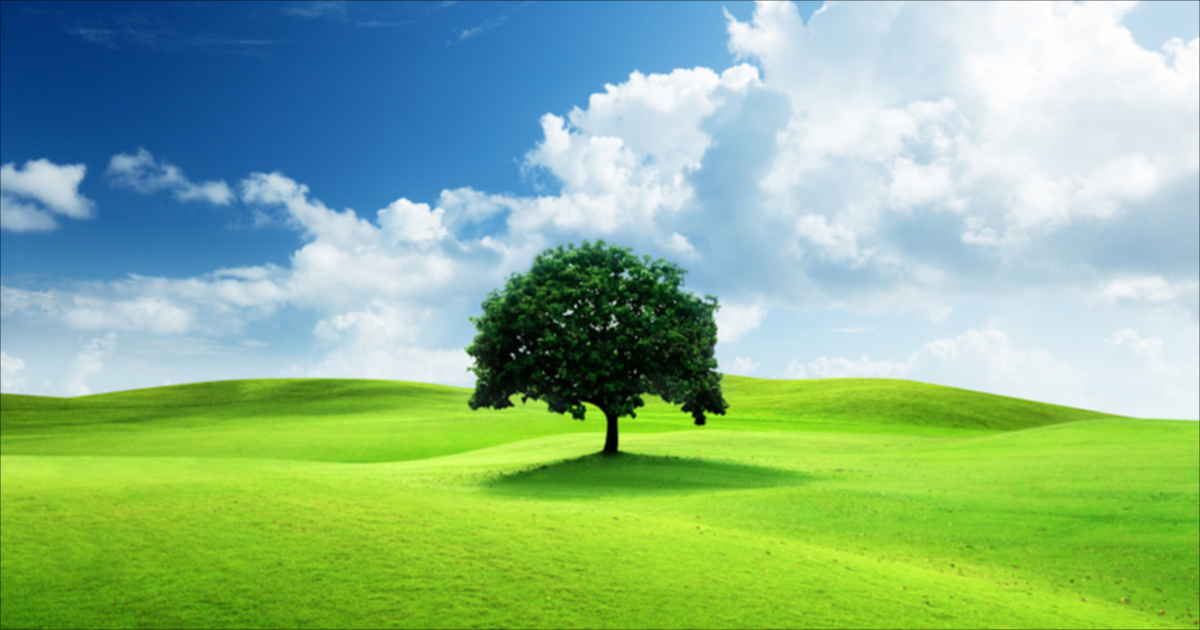
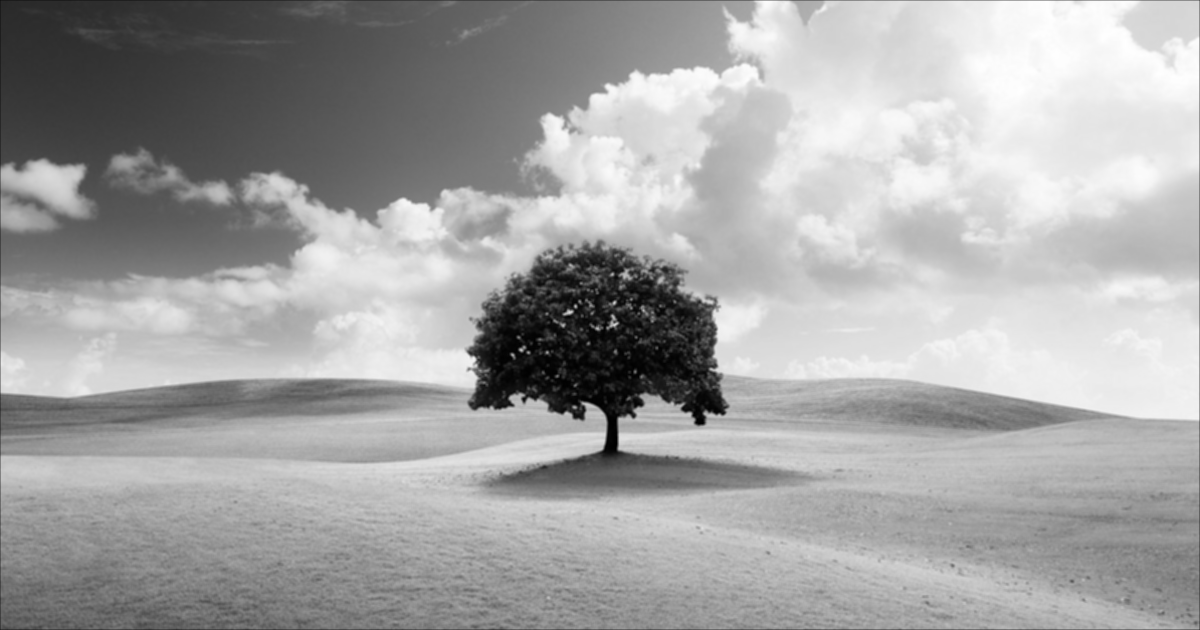
Added High Pass and Low Pass filters

diff --git a/Frontend/Frontend/src/App.jsx b/Frontend/Frontend/src/App.jsx
@@ -139,6 +139,8 @@ export default function ImageProcessor() {
           <button onClick={() => processImage("histogram")} className="btn">Histogram</button>
           <button onClick={() => processImage("smooth")} className="btn">Smooth</button>
           <button onClick={() => processImage("sharpen")} className="btn">Sharpen</button>
+          <button onClick={() => processImage("highpass")} className="btn">High-Pass</button>
+          <button onClick={() => processImage("lowpass")} className="btn">Low-Pass</button>
         </div>
       )}
 
@@ -174,19 +176,17 @@ export default function ImageProcessor() {
 
       {/* Footer */}
       <motion.div
-  className="absolute bottom-4 right-4 bg-gray-800/80 text-gray-300 text-sm px-4 py-2 rounded-lg shadow-lg border border-gray-600"
-  initial={{ opacity: 0, y: 10 }}
-  animate={{ opacity: 1, y: 0 }}
-  transition={{ duration: 0.7 }}
->
-  Project by <span className="font-semibold text-blue-400">Prajjwal Rawat</span>  
-  <br />
-  Req. No: <span className="text-purple-400">RA2311026010224</span> | Sec: <span className="text-green-400">AE-1</span>
-  <br />
-  <span className="text-white">Project submitted to:</span> <span className="text-yellow-400 font-semibold">Dr. S Nagar</span>
-</motion.div>
-
-
+        className="absolute bottom-4 right-4 bg-gray-800/80 text-gray-300 text-sm px-4 py-2 rounded-lg shadow-lg border border-gray-600"
+        initial={{ opacity: 0, y: 10 }}
+        animate={{ opacity: 1, y: 0 }}
+        transition={{ duration: 0.7 }}
+      >
+        Project by <span className="font-semibold text-blue-400">Prajjwal Rawat</span>  
+        <br />
+        Req. No: <span className="text-purple-400">RA2311026010224</span> | Sec: <span className="text-green-400">AE-1</span>
+        <br />
+        <span className="text-white">Project submitted to:</span> <span className="text-yellow-400 font-semibold">Dr. S Nagar</span>
+      </motion.div>
     </div>
   );
 }

diff --git a/Backend/processing.py b/Backend/processing.py
@@ -6,7 +6,7 @@ ImageFile.LOAD_TRUNCATED_IMAGES = True
 
 def convert_grayscale(image):
     """Convert an image to grayscale from scratch."""
-    image.load()  # Ensure image is fully loaded
+    image.load()
     img_array = np.array(image)
     
     if len(img_array.shape) == 2:  # Already grayscale
@@ -20,13 +20,8 @@ def quantize_image(image, levels=4):
     image.load()
     img_array = np.array(image)
     
-    if len(img_array.shape) == 2:  # Grayscale image
-        factor = 256 // levels
-        quantized_img = (img_array // factor) * factor
-        return Image.fromarray(quantized_img.astype(np.uint8))
-
     factor = 256 // levels
-    quantized_img = (img_array[..., :3] // factor) * factor  # Ignore alpha if present
+    quantized_img = (img_array // factor) * factor
     return Image.fromarray(quantized_img.astype(np.uint8))
 
 def histogram_equalization(image):
@@ -34,7 +29,7 @@ def histogram_equalization(image):
     image.load()
     img_array = np.array(image)
 
-    if len(img_array.shape) == 2:  # Grayscale image
+    if len(img_array.shape) == 2:  # Grayscale
         hist, bins = np.histogram(img_array.flatten(), bins=256, range=[0, 256])
         cdf = hist.cumsum()
         cdf_normalized = (cdf - cdf.min()) * 255 / (cdf.max() - cdf.min())
@@ -53,28 +48,22 @@ def smooth_filter(image):
     """Apply a 3x3 smoothing filter while preserving color or grayscale."""
     image.load()
     img_array = np.array(image)
-    
-    if len(img_array.shape) == 2:  # Grayscale image
-        kernel = np.ones((3, 3)) / 9
-        pad = 1
-        padded_img = np.pad(img_array, pad, mode='constant', constant_values=0)
-        smoothed_img = np.zeros_like(img_array)
-
-        for i in range(img_array.shape[0]):
-            for j in range(img_array.shape[1]):
-                smoothed_img[i, j] = np.sum(padded_img[i:i+3, j:j+3] * kernel)
-
-        return Image.fromarray(smoothed_img.astype(np.uint8))
 
     kernel = np.ones((3, 3)) / 9
     pad = 1
     smoothed_img = np.zeros_like(img_array)
 
-    for c in range(3):  # R, G, B channels
-        padded_channel = np.pad(img_array[:, :, c], pad, mode='constant', constant_values=0)
+    if len(img_array.shape) == 2:  # Grayscale
+        padded_img = np.pad(img_array, pad, mode='constant', constant_values=0)
         for i in range(img_array.shape[0]):
             for j in range(img_array.shape[1]):
-                smoothed_img[i, j, c] = np.sum(padded_channel[i:i+3, j:j+3] * kernel)
+                smoothed_img[i, j] = np.sum(padded_img[i:i+3, j:j+3] * kernel)
+    else:
+        for c in range(3):  # R, G, B channels
+            padded_channel = np.pad(img_array[:, :, c], pad, mode='constant', constant_values=0)
+            for i in range(img_array.shape[0]):
+                for j in range(img_array.shape[1]):
+                    smoothed_img[i, j, c] = np.sum(padded_channel[i:i+3, j:j+3] * kernel)
 
     return Image.fromarray(smoothed_img.astype(np.uint8))
 
@@ -82,26 +71,67 @@ def sharpen_filter(image):
     """Apply a sharpening filter while preserving color or grayscale."""
     image.load()
     img_array = np.array(image)
-    
+
     kernel = np.array([[0, -1, 0], [-1, 5, -1], [0, -1, 0]])
     pad = 1
+    sharpened_img = np.zeros_like(img_array)
 
-    if len(img_array.shape) == 2:  # Grayscale image
+    if len(img_array.shape) == 2:  # Grayscale
         padded_img = np.pad(img_array, pad, mode='constant', constant_values=0)
-        sharpened_img = np.zeros_like(img_array)
-
         for i in range(img_array.shape[0]):
             for j in range(img_array.shape[1]):
                 sharpened_img[i, j] = np.clip(np.sum(padded_img[i:i+3, j:j+3] * kernel), 0, 255)
-
-        return Image.fromarray(sharpened_img.astype(np.uint8))
-
-    sharpened_img = np.zeros_like(img_array)
-
-    for c in range(3):  # R, G, B channels
-        padded_channel = np.pad(img_array[:, :, c], pad, mode='constant', constant_values=0)
-        for i in range(img_array.shape[0]):
-            for j in range(img_array.shape[1]):
-                sharpened_img[i, j, c] = np.clip(np.sum(padded_channel[i:i+3, j:j+3] * kernel), 0, 255)
+    else:
+        for c in range(3):  # R, G, B channels
+            padded_channel = np.pad(img_array[:, :, c], pad, mode='constant', constant_values=0)
+            for i in range(img_array.shape[0]):
+                for j in range(img_array.shape[1]):
+                    sharpened_img[i, j, c] = np.clip(np.sum(padded_channel[i:i+3, j:j+3] * kernel), 0, 255)
 
     return Image.fromarray(sharpened_img.astype(np.uint8))
+
+def high_pass_filter(image):
+    """Apply a high-pass filter for edge detection while preserving color or grayscale."""
+    image.load()
+    img_array = np.array(image)
+
+    kernel = np.array([[-1, -1, -1], [-1, 8, -1], [-1, -1, -1]])
+    pad = 1
+    high_pass_img = np.zeros_like(img_array)
+
+    if len(img_array.shape) == 2:  # Grayscale
+        padded_img = np.pad(img_array, pad, mode='constant', constant_values=0)
+        for i in range(img_array.shape[0]):
+            for j in range(img_array.shape[1]):
+                high_pass_img[i, j] = np.clip(np.sum(padded_img[i:i+3, j:j+3] * kernel), 0, 255)
+    else:
+        for c in range(3):  # R, G, B channels
+            padded_channel = np.pad(img_array[:, :, c], pad, mode='constant', constant_values=0)
+            for i in range(img_array.shape[0]):
+                for j in range(img_array.shape[1]):
+                    high_pass_img[i, j, c] = np.clip(np.sum(padded_channel[i:i+3, j:j+3] * kernel), 0, 255)
+
+    return Image.fromarray(high_pass_img.astype(np.uint8))
+
+def low_pass_filter(image):
+    """Apply a low-pass filter for blurring while preserving color or grayscale."""
+    image.load()
+    img_array = np.array(image)
+
+    kernel = np.ones((5, 5)) / 25
+    pad = 2
+    low_pass_img = np.zeros_like(img_array)
+
+    if len(img_array.shape) == 2:  # Grayscale
+        padded_img = np.pad(img_array, pad, mode='constant', constant_values=0)
+        for i in range(img_array.shape[0]):
+            for j in range(img_array.shape[1]):
+                low_pass_img[i, j] = np.sum(padded_img[i:i+5, j:j+5] * kernel)
+    else:
+        for c in range(3):  # R, G, B channels
+            padded_channel = np.pad(img_array[:, :, c], pad, mode='constant', constant_values=0)
+            for i in range(img_array.shape[0]):
+                for j in range(img_array.shape[1]):
+                    low_pass_img[i, j, c] = np.sum(padded_channel[i:i+5, j:j+5] * kernel)
+
+    return Image.fromarray(low_pass_img.astype(np.uint8))

diff --git a/Backend/app.py b/Backend/app.py
@@ -1,6 +1,9 @@
 from flask import Flask, request, jsonify, send_file
 from flask_cors import CORS
-from processing import convert_grayscale, quantize_image, histogram_equalization, smooth_filter, sharpen_filter
+from processing import (
+    convert_grayscale, quantize_image, histogram_equalization,
+    smooth_filter, sharpen_filter, high_pass_filter, low_pass_filter
+)
 from PIL import Image
 import os
 
@@ -48,6 +51,10 @@ def process_image(operation):
         processed_img = smooth_filter(image)
     elif operation == "sharpen":
         processed_img = sharpen_filter(image)
+    elif operation == "highpass":
+        processed_img = high_pass_filter(image)
+    elif operation == "lowpass":
+        processed_img = low_pass_filter(image)
     else:
         return jsonify({"error": "Invalid operation"}), 400
 
